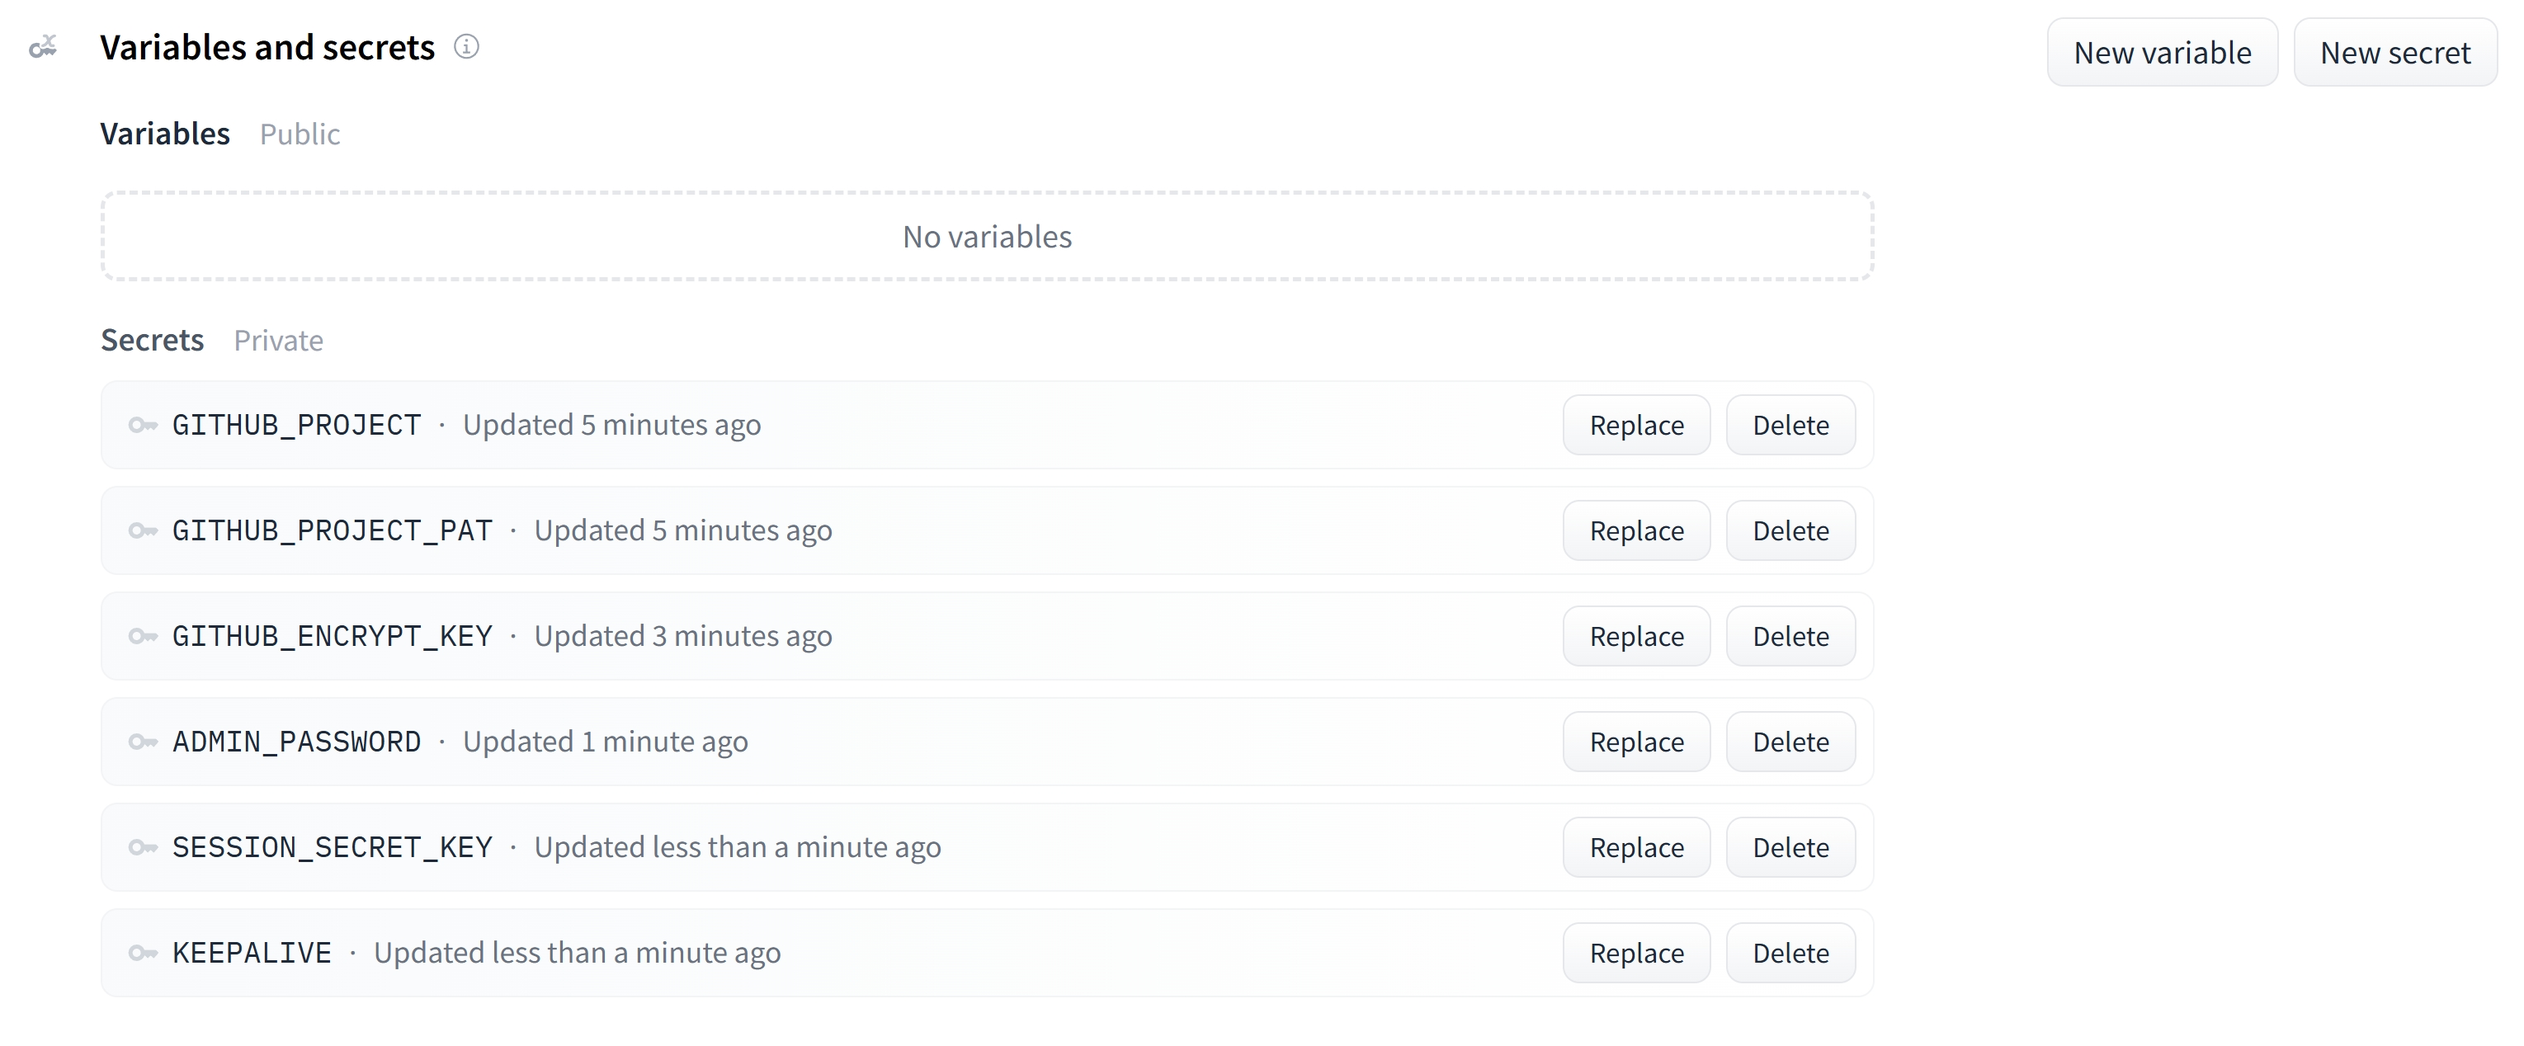
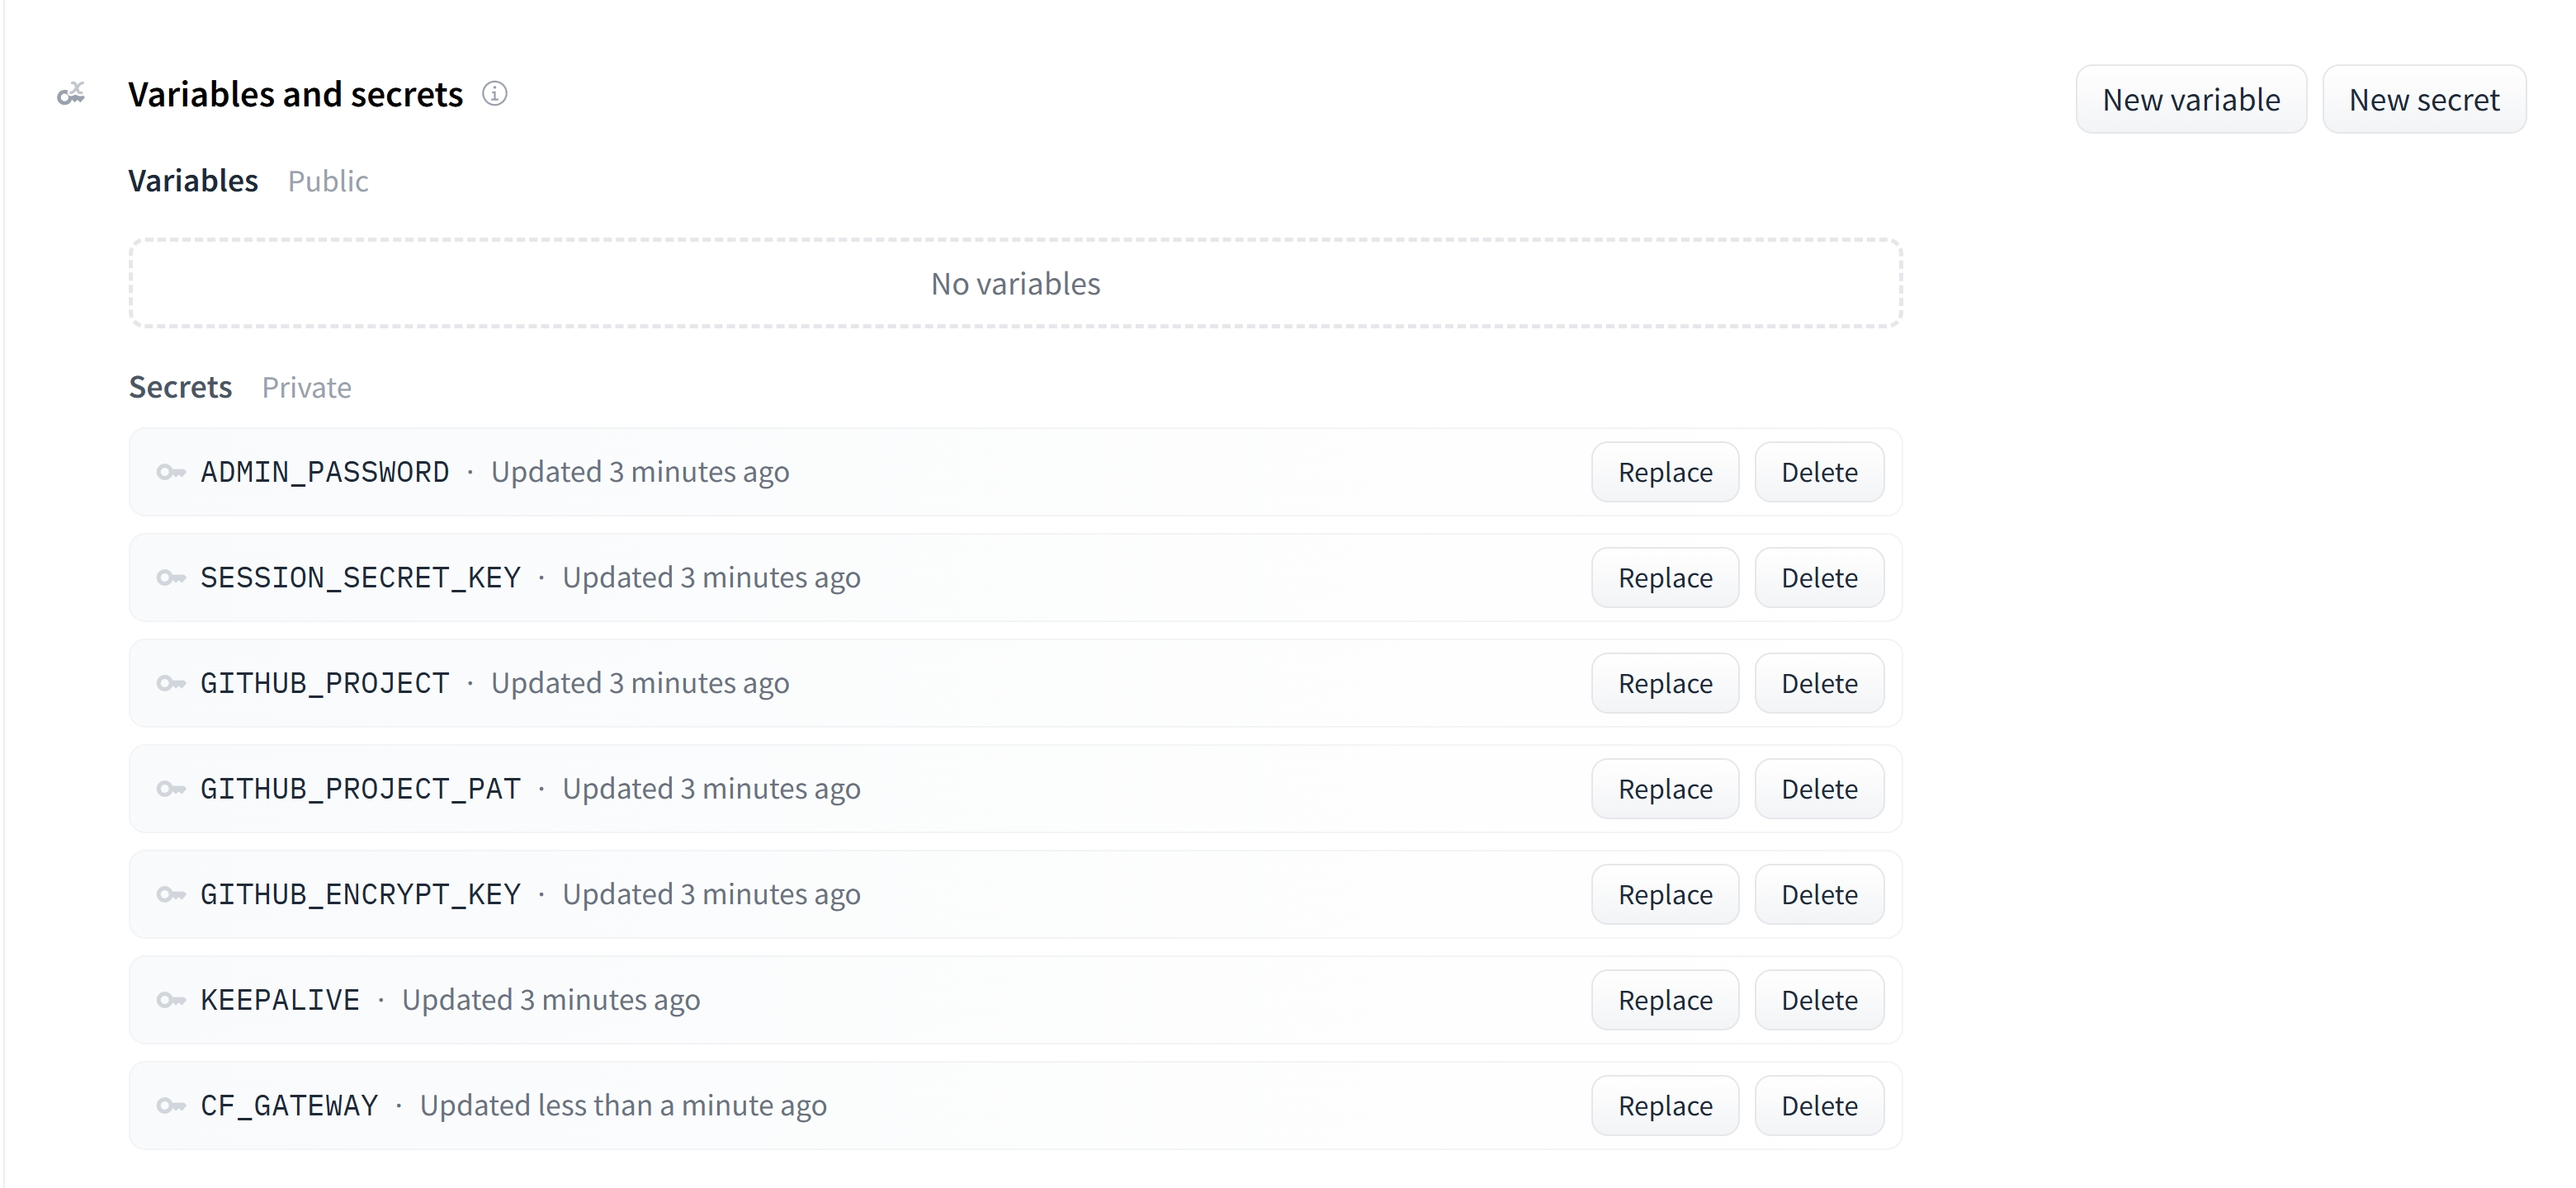
Add doc for CF_GATEWAY

diff --git a/src/services/geminiProxyService.js b/src/services/geminiProxyService.js
@@ -7,6 +7,12 @@ const transformUtils = require('../utils/transform');
 
 // Base Gemini API URL
 const BASE_GEMINI_URL = 'https://generativelanguage.googleapis.com';
+// Cloudflare Gateway base path
+const CF_GATEWAY_BASE = 'https://gateway.ai.cloudflare.com/v1';
+// Project ID regex pattern - 32 character hex string
+const PROJECT_ID_REGEX = /^[0-9a-f]{32}$/i;
+// Default Cloudflare Gateway project ID (Replace with your actual default if needed)
+const DEFAULT_PROJECT_ID = 'db16589aa22233d56fe69a2c3161fe3c';
 
 async function proxyChatCompletions(openAIRequestBody, workerApiKey, stream) {
     // Check if KEEPALIVE mode is enabled
@@ -139,10 +145,61 @@ async function proxyChatCompletions(openAIRequestBody, workerApiKey, stream) {
                 // If keepalive is enabled and original request was streaming, use non-streaming API
                 const apiAction = actualStreamMode ? 'streamGenerateContent' : 'generateContent';
                 
-                // Build complete API URL with the default Gemini API URL
+                // Determine Base URL based on CF_GATEWAY environment variable
+                let baseUrl = BASE_GEMINI_URL; // Default to standard Gemini URL
+                const cfGateway = process.env.CF_GATEWAY;
+
+                // Return default URL if CF_GATEWAY is not set
+                if (!cfGateway) {
+                    // Use default Gemini API URL (already set)
+                } else {
+                    // Handle case 1: CF_GATEWAY = "1" (use default project ID)
+                    if (cfGateway === '1') {
+                        // Validate default project ID format
+                        if (PROJECT_ID_REGEX.test(DEFAULT_PROJECT_ID)) {
+                            // Only use default Cloudflare Gateway if project ID format is valid
+                            baseUrl = `${CF_GATEWAY_BASE}/${DEFAULT_PROJECT_ID}/gemini/google-ai-studio`;
+                            console.log(`Using default Cloudflare Gateway: ${baseUrl}`);
+                        } else {
+                             console.warn(`Invalid DEFAULT_PROJECT_ID format: ${DEFAULT_PROJECT_ID}. Falling back to default Gemini URL.`);
+                        }
+                        // If invalid, fall back to default Gemini API URL (already set)
+                    } else {
+                        // Handle case 2: CF_GATEWAY contains projectId/gatewayName
+                        try {
+                            // Remove trailing slashes
+                            let gatewayValue = cfGateway.replace(/\/+$/, '');
+
+                            // Try to extract projectId/gatewayName pattern from anywhere in the string
+                            // This will work for both full URLs and direct format strings like "projectId/gatewayName"
+                            const pattern = /([0-9a-f]{32})\/([^\/\s]+)/i;
+                            const matches = gatewayValue.match(pattern);
+
+                            if (matches && matches.length >= 3) {
+                                const projectId = matches[1];
+                                const gatewayName = matches[2];
+
+                                if (PROJECT_ID_REGEX.test(projectId)) {
+                                    baseUrl = `${CF_GATEWAY_BASE}/${projectId}/${gatewayName}/google-ai-studio`;
+                                    console.log(`Using custom Cloudflare Gateway: ${baseUrl}`);
+                                } else {
+                                     console.warn(`Invalid Project ID format found in CF_GATEWAY: ${projectId}. Falling back to default Gemini URL.`);
+                                }
+                            } else {
+                                console.warn(`CF_GATEWAY value "${cfGateway}" does not match expected format (e.g., 'projectId/gatewayName' or full URL). Falling back to default Gemini URL.`);
+                            }
+                        } catch (error) {
+                            console.error('Error parsing CF_GATEWAY value:', error);
+                            // Fall back to default URL on error (already set)
+                        }
+                    }
+                    // For any other value or format issue of CF_GATEWAY, keep using default Gemini API URL
+                }
+
+                // Build complete API URL using the determined base URL
                 // Use actualModelId instead of requestedModelId with -search suffix
-                const geminiUrl = `${BASE_GEMINI_URL}/v1beta/models/${actualModelId}:${apiAction}`;
-                
+                const geminiUrl = `${baseUrl}/v1beta/models/${actualModelId}:${apiAction}`;
+
                 const geminiRequestHeaders = {
                     'Content-Type': 'application/json',
                     'User-Agent': `Mozilla/5.0 (Windows NT 10.0; Win64; x64) AppleWebKit/537.36 (KHTML, like Gecko) Chrome/118.0.0.0 Safari/537.36`,

diff --git a/src/routes/adminApi.js b/src/routes/adminApi.js
@@ -62,10 +62,63 @@ router.delete('/gemini-keys/:id', async (req, res, next) => {
 
 // Base Gemini API URL
 const BASE_GEMINI_URL = 'https://generativelanguage.googleapis.com';
+// Cloudflare Gateway base path
+const CF_GATEWAY_BASE = 'https://gateway.ai.cloudflare.com/v1';
+// Project ID regex pattern - 32 character hex string
+const PROJECT_ID_REGEX = /^[0-9a-f]{32}$/i;
+// Default Cloudflare Gateway project ID (Ensure this matches geminiProxyService.js or is appropriate)
+const DEFAULT_PROJECT_ID = 'db16589aa22233d56fe69a2c3161fe3c';
 
-// Helper to get the base URL for Gemini API
+// Helper to get the base URL for Gemini API, considering CF_GATEWAY
 function getGeminiBaseUrl() {
-    return BASE_GEMINI_URL;
+    let baseUrl = BASE_GEMINI_URL; // Default to standard Gemini URL
+    const cfGateway = process.env.CF_GATEWAY;
+
+    // Return default URL if CF_GATEWAY is not set
+    if (!cfGateway) {
+        // Use default Gemini API URL (already set)
+    } else {
+        // Handle case 1: CF_GATEWAY = "1" (use default project ID)
+        if (cfGateway === '1') {
+            // Validate default project ID format
+            if (PROJECT_ID_REGEX.test(DEFAULT_PROJECT_ID)) {
+                // Only use default Cloudflare Gateway if project ID format is valid
+                baseUrl = `${CF_GATEWAY_BASE}/${DEFAULT_PROJECT_ID}/gemini/google-ai-studio`;
+                console.log(`Admin API: Using default Cloudflare Gateway: ${baseUrl}`);
+            } else {
+                 console.warn(`Admin API: Invalid DEFAULT_PROJECT_ID format: ${DEFAULT_PROJECT_ID}. Falling back to default Gemini URL.`);
+            }
+            // If invalid, fall back to default Gemini API URL (already set)
+        } else {
+            // Handle case 2: CF_GATEWAY contains projectId/gatewayName
+            try {
+                // Remove trailing slashes
+                let gatewayValue = cfGateway.replace(/\/+$/, '');
+
+                // Try to extract projectId/gatewayName pattern from anywhere in the string
+                const pattern = /([0-9a-f]{32})\/([^\/\s]+)/i;
+                const matches = gatewayValue.match(pattern);
+
+                if (matches && matches.length >= 3) {
+                    const projectId = matches[1];
+                    const gatewayName = matches[2];
+
+                    if (PROJECT_ID_REGEX.test(projectId)) {
+                        baseUrl = `${CF_GATEWAY_BASE}/${projectId}/${gatewayName}/google-ai-studio`;
+                        console.log(`Admin API: Using custom Cloudflare Gateway: ${baseUrl}`);
+                    } else {
+                         console.warn(`Admin API: Invalid Project ID format found in CF_GATEWAY: ${projectId}. Falling back to default Gemini URL.`);
+                    }
+                } else {
+                    console.warn(`Admin API: CF_GATEWAY value "${cfGateway}" does not match expected format. Falling back to default Gemini URL.`);
+                }
+            } catch (error) {
+                console.error('Admin API: Error parsing CF_GATEWAY value:', error);
+                // Fall back to default URL on error (already set)
+            }
+        }
+    }
+    return baseUrl;
 }
 
 // --- Test Gemini Key --- (/api/admin/test-gemini-key)

diff --git a/doc/Usage/CF_GATEWAY.md b/doc/Usage/CF_GATEWAY.md
@@ -1,0 +1,35 @@
+# 功能介绍: CF_GATEWAY
+
+通过配置 `CF_GATEWAY` 环境变量，启用 Cloudflare AI Gateway 功能，用于监控、统计和转发 AI 请求。
+
+---
+
+## 使用方式：
+
+### 使用项目内置默认网关地址
+```
+CF_GATEWAY=1
+```
+### 或使用自定义 Gateway 地址（推荐自定义，便于管理和监控）
+```
+CF_GATEWAY=https://gateway.ai.cloudflare.com/v1/your_gateway_id/your_gateway_name/
+```
+---
+
+## 网关创建流程：
+
+1. 登录 [Cloudflare Dashboard](https://dash.cloudflare.com/)，进入左侧导航栏的 `AI > AI Gateway` 页面。
+![](image/gateway-1.jpg)
+2. 点击右上角的「创建网关」按钮。
+![](image/gateway-2.jpg)
+3. 填写网关名称（如 test），点击「创建」。
+![](image/gateway-3.jpg)
+4. 创建成功后进入详情页，点击右上角的「API」按钮。复制 API 终端地址，即网关地址，配置到项目中的 `CF_GATEWAY` 环境变量中。
+![](image/gateway-4.jpg)
+---
+
+## 注意事项：
+
+- 使用自定义网关地址前需先在 Cloudflare 中创建网关。
+- 在 Hugging Face Spaces 部署时启用该功能，可能会导致无法正常获取流式响应（streaming），请酌情使用。
+- 使用项目默认提供的网关同样会记录您的请求内容，建议自行创建网关使用。

diff --git a/doc/Deploy/HuggingFace/Hugging Face Space部署.md b/doc/Deploy/HuggingFace/Hugging Face Space部署.md
@@ -34,7 +34,11 @@
      * `GITHUB_ENCRYPT_KEY`: 设置一个用于加密同步数据的密钥，**必须是 32 位或更长的字符串**。\
      ![](image/4.3.jpg)
      * (可选)`KEEPALIVE`: 填入`1`启用心跳机制，以实现假流式传输。\
+     详情参考: [KEEPALIVE模式介绍](../../Usage/KEEPALIVE.md)\
      ![](image/4.6.jpg)
+     * (可选)`CF_GAGEWAY`: 填入`1`启用脚本默认提供的Cloudflare AI Gateway网关转发请求，或输入您自己网关链接。\
+     详情参考: [CF_GATEWAY介绍](../../Usage/CF_GATEWAY.md)\
+     ![](image/4.7.jpg)
      * Secrets配置完成。\
      ![](image/5.0.jpg)
 
